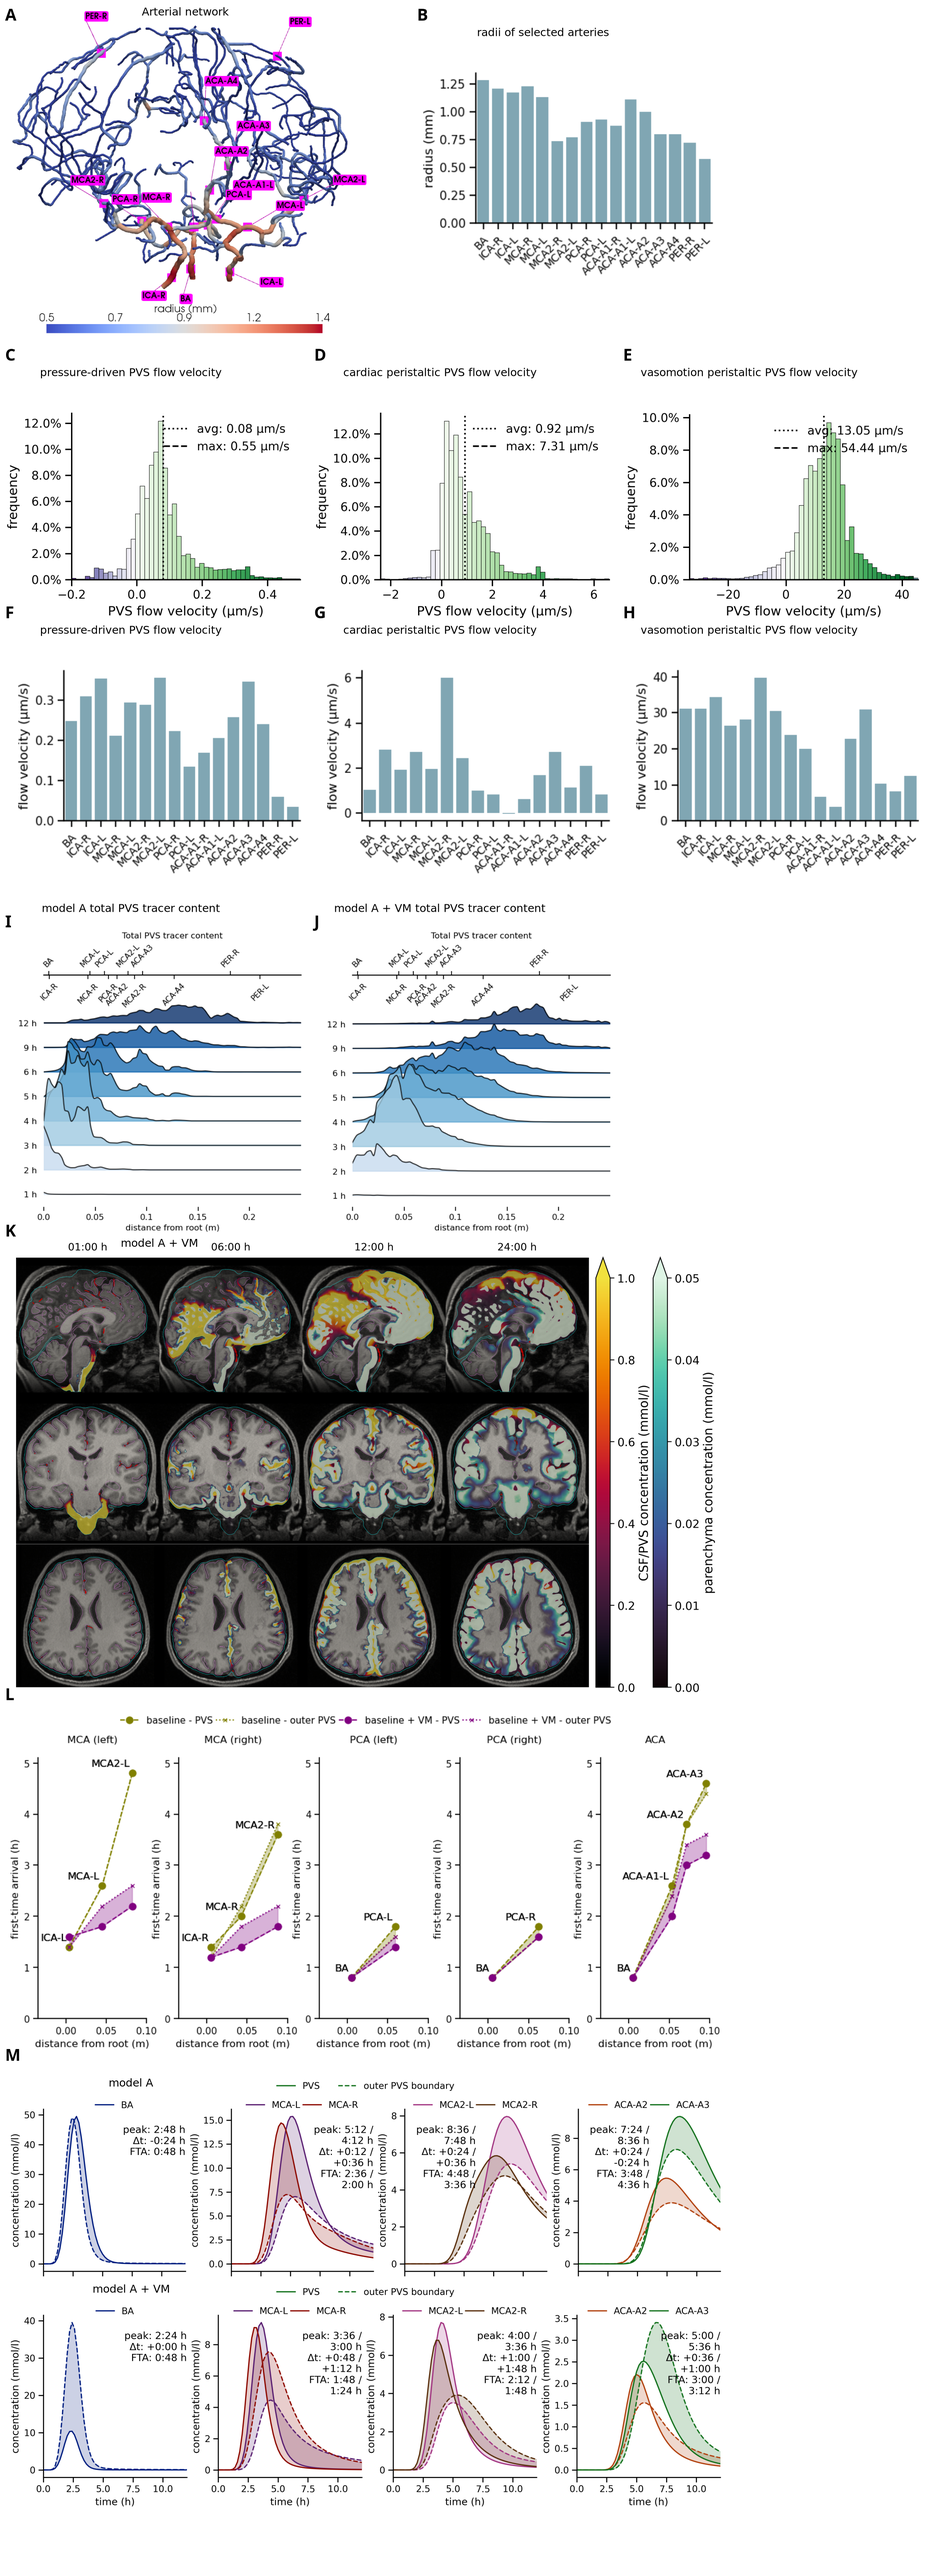
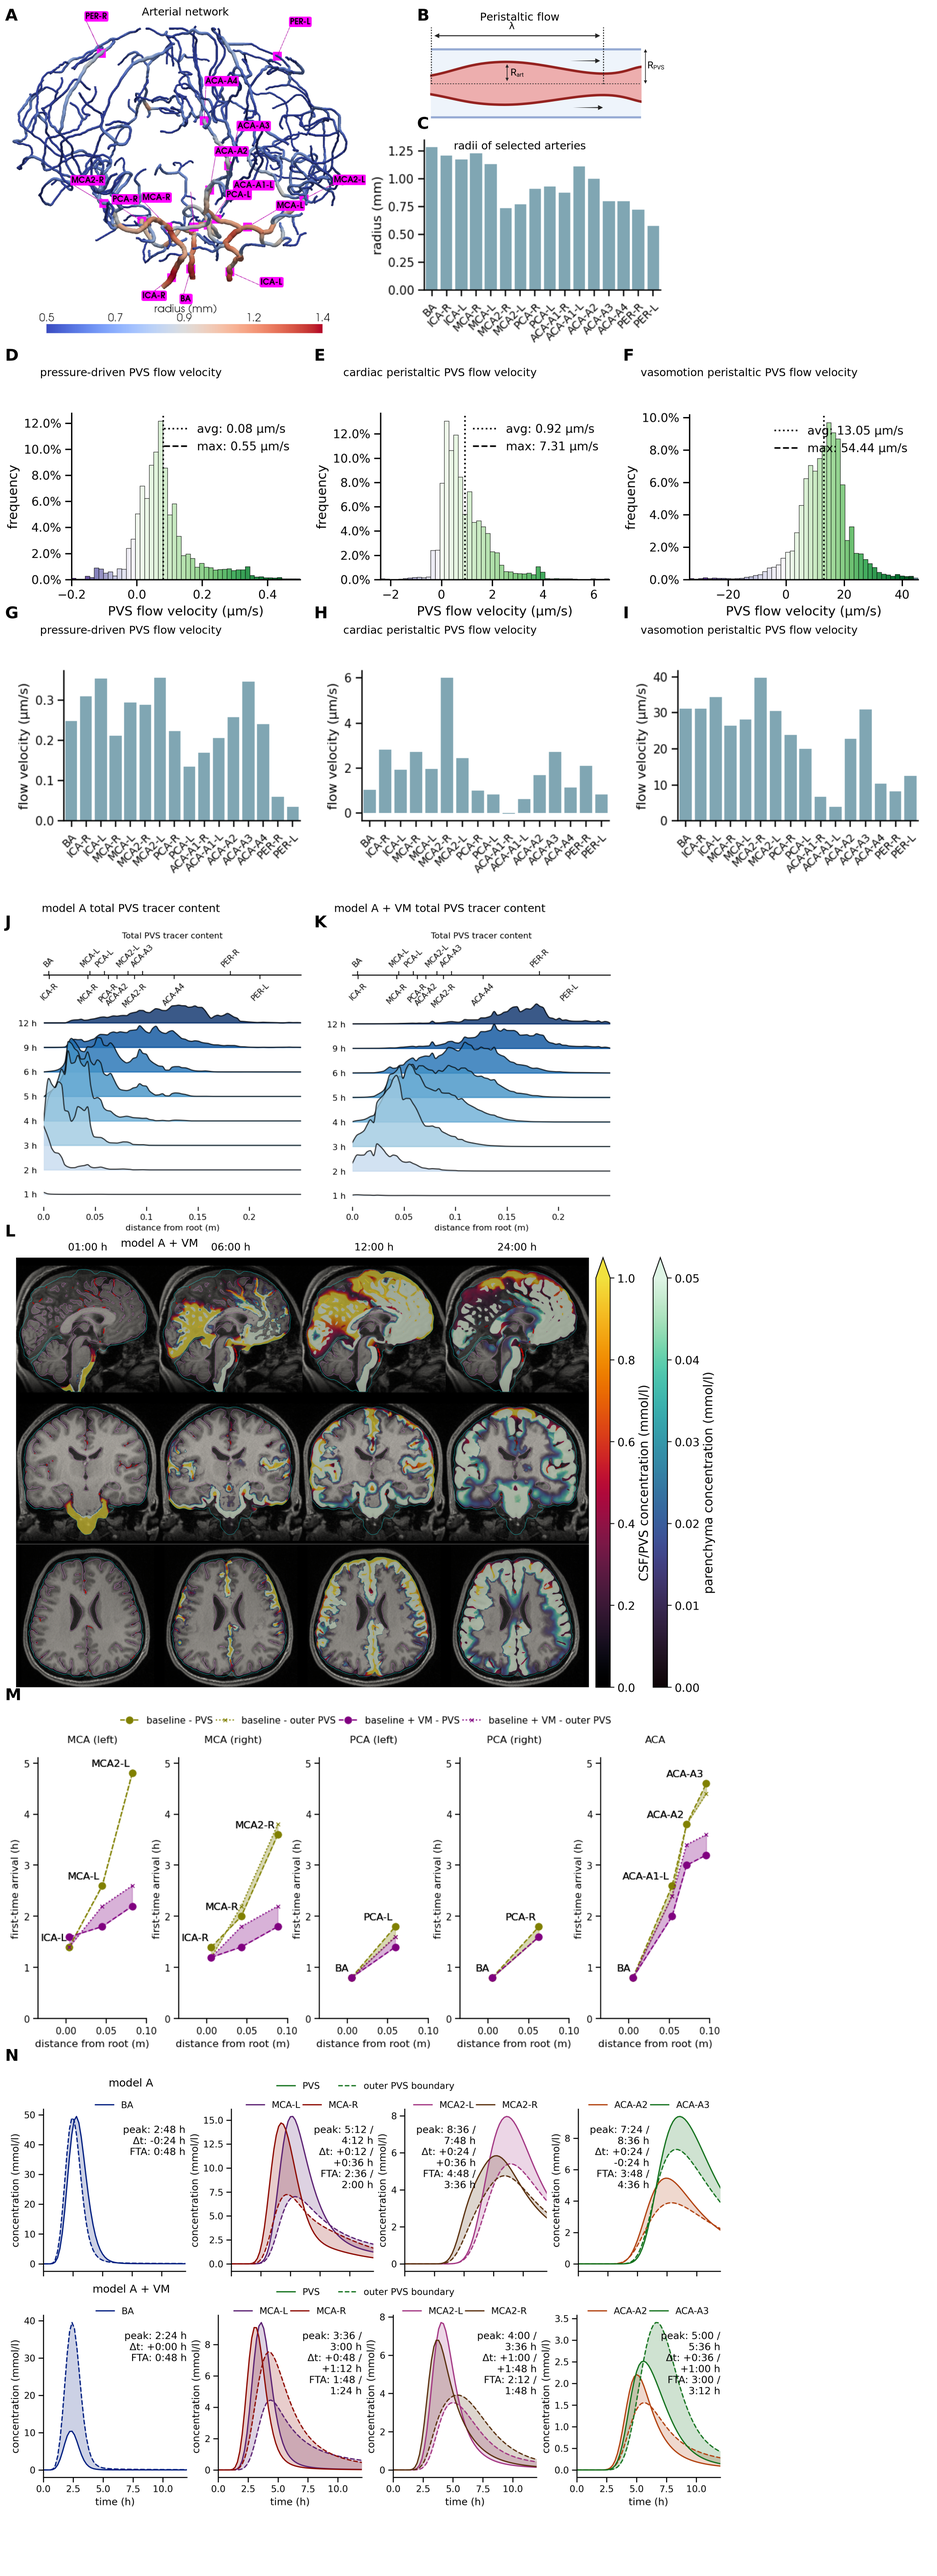
update plots

Changed region(s): [[0.3741, 0.0, 0.7794, 0.1558]]

diff --git a/scripts/figure2.py b/scripts/figure2.py
@@ -47,14 +47,14 @@ class Figure2_Panels(PanelsSpec):
             content_offset=offset,
             text=Text("production-driven CSF flow", **textargs)
     )
-    d2: Panel = Panel(
+    e: Panel = Panel(
             RasterImage("results/csf_flow/sas_flow/prod_velocity_histo.png",
                          ElemSize(fs, fs*0.6, units)),
             Location(xstart + 3*fs*fac, y0 + fs),
             content_offset=Location(-0.3, 0),
             text=Text("production-driven CSF velocities", **dict(textargs, y=0.1))
         )
-    e: Panel = Panel(
+    f: Panel = Panel(
             RasterImage("results/csf_flow/cardiac_sas_flow/csf_v.png", 
                         ElemSize(fs, fs, units)),
             Location(xstart, y1),
@@ -69,68 +69,89 @@ class Figure2_Panels(PanelsSpec):
             text=Text("cardiac dispersion enhancement", **textargs)
         )
     
-    f: Panel = Panel(
+    h: Panel = Panel(
             RasterImage("results/csf_flow/respiratory_sas_flow/csf_v.png", 
             ElemSize(fs, fs, units)),
             Location(xstart +fac*2*fs, y1),
             content_offset=offset,
             text=Text("respiratory-driven CSF flow", **textargs)
         )
-    h: Panel = Panel(
+    i: Panel = Panel(
             RasterImage("results/csf_flow/respiratory_sas_flow/R.png",
                          ElemSize(fs, fs, units)),
             Location(xstart +3*fs*fac, y1),
             content_offset=offset,
             text=Text("respiratory dispersion enhancement", **dict(textargs))
         )
-    i: Panel = Panel(
+    j: Panel = Panel(
             RasterImage("results/csf_flow/cardiac_sas_flow/cardiac_velocity_histo.png",
                          ElemSize(fs*fac, fs/2, units)),
             Location(xstart + 0*fs, y2),
             text=Text("cardiac flow velocities", **textargs_histo)
         )
-    j: Panel = Panel(
+    k: Panel = Panel(
             RasterImage("results/csf_flow/cardiac_sas_flow/R_histo.png",
                          ElemSize(fs*fac, fs/2, units)),
             Location(xstart + 1*fs*fac, y2),
             text=Text("cardiac dispersion enhancement", **textargs_histo)
         )
-    k: Panel = Panel(
+    l: Panel = Panel(
             RasterImage("results/csf_flow/respiratory_sas_flow/resp_velocity_histo.png",
                          ElemSize(fs*fac, fs/2, units)),
             Location(0.0 + 2*fs*fac, y2),
             text=Text("respiratory flow velocities", **textargs_histo)
         )
-    l: Panel = Panel(
+    m: Panel = Panel(
             RasterImage("results/csf_flow/respiratory_sas_flow/R_histo.png",
                          ElemSize(fs*fac, fs/2, units)),
             Location(0.0 +3*fs*fac, y2),
             text=Text("respiratory dispersion enhancement", **textargs_histo)
         )
-    
-    m: Panel = Panel(
-            RasterImage("plots/modelA/modelA_overview.png",
-                         ElemSize(12.9, hn, units), crop=(0,100,0,0)),
-            Location(0.0, y3),
-            content_offset=Location(0,0),
-            text=(Text(" 1:00 h", **dict(textargs, y=-0.1, x=w/2)),
-                  Text(" 6:00 h", **dict(textargs, y=-0.1, x=3*w/2 )),
-                  Text("12:00 h", **dict(textargs, y=-0.1, x=5*w/2)),
-                  Text("24:00 h", **dict(textargs, y=-0.1, x=7*w/2)))
-        )
     n: Panel = Panel(
-            RasterImage("plots/modelA-LowD/modelA-LowD_overview.png",
-                         ElemSize(3, hn, units), crop=(1400, 100, 1300, 0)),
-            Location(12.8, y3), auto_label=True,
+            RasterImage("plots/modelA/modelA_overview.png",
+                         ElemSize(3, hn, units), crop=(1420, 100, 1350, 0)),
+            Location(xstart, y3), auto_label=True,
             content_offset=Location(0,0),
-            text=Text("low dispersion (12 h)", **dict(textargs, y=-0.1, x=1.5))
+            text=Text("baseline", **dict(textargs, y=-0.1, x=1.5))
         )
     n2: Panel = Panel(
             RasterImage("plots/modelA-OnlyDispersion/modelA-OnlyDispersion_overview.png",
-                         ElemSize(3, hn, units), crop=(1400, 100, 1300, 0)),
-            Location(12.8 + compwidth, y3), auto_label=False,
+                         ElemSize(3, hn, units), crop=(1420, 100, 1350, 0)),
+            Location(xstart + compwidth, y3), auto_label=False,
             content_offset=Location(0,0),
             text=Text("no advection (12 h)", **dict(textargs, y=-0.1, x=1.5))
+        )
+    n3: Panel = Panel(
+            RasterImage("plots/modelA-LowD/modelA-LowD_overview.png",
+                         ElemSize(3, hn, units), crop=(1420, 100, 1350, 0)),
+            Location(xstart + 2*compwidth, y3), auto_label=False,
+            content_offset=Location(0,0),
+            text=Text("low dispersion (12 h)", **dict(textargs, y=-0.1, x=1.5))
+        )
+    n4: Panel = Panel(
+            RasterImage("plots/modelA-OnlyDispersion/modelA-OnlyDispersion_overview.png",
+                         ElemSize(3, hn, units), crop=(1420, 100, 1350, 0)),
+            Location(xstart + 3*compwidth, y3), auto_label=False,
+            content_offset=Location(0,0),
+            text=Text("placeholder", **dict(textargs, y=-0.1, x=1.5))
+        )
+    n5: Panel = Panel(
+            RasterImage("plots/modelA-OnlyDispersion/modelA-OnlyDispersion_overview.png",
+                         ElemSize(3, hn, units), crop=(2850, 100, 20, 0)),
+            Location(xstart + 4*compwidth, y3), auto_label=False,
+            content_offset=Location(0,0),
+        )
+    o:Panel = Panel(
+            RasterImage("plots/modelA/modelA_total_conc.png",
+                         ElemSize(5,4, units)),
+            Location(13, y3),
+            text=Text("Total tracer content", **textargs_histo)
+        )
+    p:Panel = Panel(
+            RasterImage("plots/modelA/modelA_mean_conc.png",
+                         ElemSize(5,4, units)),
+            Location(13, y3 + 4),
+            text=Text("Tracer concentrations", **textargs_histo)
         )
 
 

diff --git a/scripts/plot_mean_concentrations.py b/scripts/plot_mean_concentrations.py
@@ -1,0 +1,80 @@
+from fenics import *
+from xii import *
+from plotting_utils import get_result_fenics
+import typer
+from typing import List
+import matplotlib.pyplot as plt
+from plotting_utils import set_plotting_defaults, read_config, minmax
+from solver import pcws_constant
+import numpy as np
+import seaborn as sns
+from IPython import embed
+import pandas as pd
+import yaml
+from branch_marking import color_branches
+from label_arteries import pointlabels
+from test_map_on_global_coords_shift import map_kdtree
+from peristalticflow import mesh_to_weighted_graph, nx
+from generate_synthseg_mesh import CSFID, PARID, LVID, V34ID, CSFNOFLOWID
+import joypy
+from cmap import Colormap
+from scipy.stats import binned_statistic
+
+mol2mmol = 1e3
+
+def compare_concentrations(modelname:str):
+    config = read_config(f"configfiles/{modelname}.yml")
+    dt , T= config["dt"], config["T"]
+    times = np.arange(0, T + dt, 3*dt*config["output_frequency"])
+
+    data = read_config(f"results/{modelname}/mean_concentrations.yml")
+
+    labels = ["CSF", "parenchyma", "PVS artery", "PVS vein"]
+    tot_values = [[data[f"ctot_{l}_{t}"] for t in times] for l in labels]
+    concentrations = [[data[f"cmean_{l}_{t}"] for t in times] for l in labels]
+    labels = ["CSF", "PAR", "PVS artery", "PVS vein"]
+
+    set_plotting_defaults()
+    #sns.set_palette("BrBG", n_colors=4)
+    sns.set_palette(["#0a9396","#94d2bd", "#e9d8a6", "#ee9b00"])
+
+    fig, ax = plt.subplots(figsize=(5,4))
+    tot = np.zeros_like(times)
+
+    for q, l in zip(tot_values, labels):
+        new_tot = tot + np.array(q)*mol2mmol
+        fill = ax.fill_between(times/ (60*60), new_tot, tot, 
+                               alpha=0.7, label=l)
+        tot = new_tot
+    
+    plt.xlabel("time (h)")
+    #ax2.set_ylabel('mean tracer concentration (mmol/l)')
+    ax.set_ylabel("total tracer content (mmol)")
+    ax.legend(loc='upper center', bbox_to_anchor=(0.5, 1.2), ncol=4, 
+              columnspacing=0.5, frameon=False)
+    plt.tight_layout()
+    filename = f"plots/{modelname}/{modelname}_total_conc.png"
+    plt.savefig(filename, dpi=300)
+
+    fig, ax = plt.subplots(figsize=(5,4))
+    tot = np.zeros_like(times)
+
+    for c, l in zip(concentrations, labels):
+        new_tot = tot + np.array(q)*mol2mmol
+        plt.plot(times / (60*60), c, "-", label=l, lw=5)
+        tot = new_tot
+    
+    plt.xlabel("time (h)")
+    #ax2.set_ylabel('mean tracer concentration (mmol/l)')
+    ax.set_ylabel("mean tracer concentration (mmol/l)")
+    ax.legend(loc='upper center', bbox_to_anchor=(0.5, 1.2), ncol=4, 
+              columnspacing=0.5, frameon=False)
+    plt.tight_layout()
+    filename = f"plots/{modelname}/{modelname}_mean_conc.png"
+    plt.savefig(filename, dpi=300)
+
+
+
+
+if __name__ == "__main__":
+    typer.run(compare_concentrations)

diff --git a/scripts/mean_concentrations.py b/scripts/mean_concentrations.py
@@ -59,35 +59,14 @@ def compare_concentrations(modelname:str):
     csf_tot = np.array([assemble(phi*c*dx(CSFID)) for c in sas_conc])
     art_tot = np.array([assemble(area_artery*c*dxa) for c in art_conc])
     ven_tot = np.array([assemble(area_vein*c*dxv) for c in ven_conc])
-    tot = par_tot + csf_tot + art_tot + ven_tot
 
     #inflow = np.cumsum([k*max(0.0, t0 - t) for t in alltimes]) * dt
     set_plotting_defaults()
-    sns.set_palette("magma_r", n_colors=4)
-    mol2mmol = 1e3
     fig, ax = plt.subplots()
-    ax2 = ax.twinx()
-    tot = np.zeros_like(times)
     labels = ["CSF", "parenchyma", "PVS artery", "PVS vein"]
     compartments = [csf_tot, par_tot, art_tot, ven_tot]
     volumes = [assemble(phi*dx(CSFID)), assemble(phi*dx(PARID)),
                assemble(area_artery*dxa),assemble(area_vein*dxv)]
-    for q,v, l in zip(compartments, volumes, labels):
-        new_tot = tot + q*mol2mmol
-        #plt.plot(times / (60*60), new_tot, ".-", label=l)
-        fill = ax.fill_between(times/ (60*60), new_tot, tot, alpha=0.7, label=l)
-        ax2.plot(times/ (60*60), q/v,"o-" , ms=10,
-                 mfc=fill.get_facecolor(), color="grey")
-        tot = new_tot
-    
-    #plt.plot(alltimes / (60*60), inflow, "--" , label="inflow")
-    plt.xlabel("time (h)")
-    ax2.set_ylabel('mean tracer concentration (mmol/l)')
-    ax.set_ylabel("total tracer content (mmol)")
-    ax.legend(loc='upper center', bbox_to_anchor=(0.5, 1.1), ncol=6, columnspacing=0.7)
-    plt.tight_layout()
-    filename = f"plots/{modelname}/{modelname}_total_conc.png"
-    plt.savefig(filename)
 
     metrics = dict()
     for l,v, comp in zip(labels, volumes, compartments):

diff --git a/scripts/figure1.py b/scripts/figure1.py
@@ -4,16 +4,25 @@ from pathlib import Path
 
 units = Units.cm
 xstart = 0.1
-textargs = {"x":fs/2, "y":0.4, "size":8, "anchor":"middle",
+textargs = {"x":2, "y":0.4, "size":8, "anchor":"middle",
              "weight":"normal", "font":"DejaVu Sans"}
 textargs_histo = dict(textargs, y=0)
 y0 = 0.4
+y1 = 7.4
+w = 2.65
+
 
 class Figure2_Panels(PanelsSpec):
     a: Panel = Panel(
+            RasterImage("paper/figures/Brain-PVS-callouts.png",
+                         ElemSize(9, 7, units),),
+            Location(xstart, y0),
+            content_offset=Location(0,-0.5),
+        )
+    b: Panel = Panel(
             RasterImage("plots/modelA/modelA_overview.png",
                          ElemSize(13, 8, units), crop=(0,100,0,0)),
-            Location(xstart, y0),
+            Location(xstart, y1),
             content_offset=Location(0,0),
             text=(Text(" 1:00 h", **dict(textargs, y=-0.1, x=w/2)),
                   Text(" 6:00 h", **dict(textargs, y=-0.1, x=3*w/2 )),
@@ -23,7 +32,7 @@ class Figure2_Panels(PanelsSpec):
 
 
 class Figure2(FigureSpec):
-    figure_size = ElemSize(18.2, 24, units)
+    figure_size = ElemSize(18.2, 16, units)
     output_file = Path.cwd() / "plots" / "figures" / "figure1.png"
     auto_label_options = AutoLabelOptions(
         first_char:=Text("A", 0, 0, size=12, weight="bold"))

diff --git a/scripts/figure3.py b/scripts/figure3.py
@@ -26,12 +26,17 @@ class Figure2_Panels(PanelsSpec):
             content_offset=Location(-1,-1.3),
             text=Text("Arterial network", **dict(textargs, x=4.5, y=1.2))
         )
+    a2: Panel = Panel(
+            RasterImage("paper/figures/peristaltic_flow.png", ElemSize(5, 2, units)),
+            Location(xstart + 8, y0),
+            text=Text("Peristaltic flow", **dict(textargs, x=2, y=0))
+        )
     b: Panel = Panel(
         RasterImage("plots/pvs_flow_prod/sas_flow-arteries/sas_flow-arteries_radius.png",
                      ElemSize(6, 6, units)),
-        Location(xstart + 8, y0),
-        #content_offset=Location(-1,-1.3),
-        text=Text("radii of selected arteries", **dict(textargs, y=0.3))
+        Location(xstart + 8, 2.5),
+        content_offset=Location(-1,-0.8),
+        text=Text("radii of selected arteries", **dict(textargs, y=1.2, x=3))
     )
     c: Panel = Panel(
         RasterImage("plots/pvs_flow_prod/sas_flow-arteries/sas_flow-arteries_velocity_histo_cell.png",
